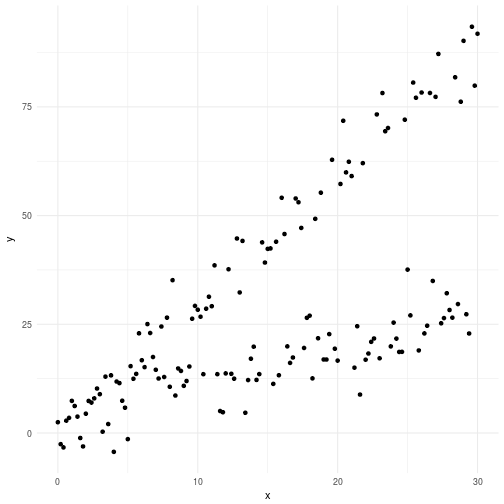
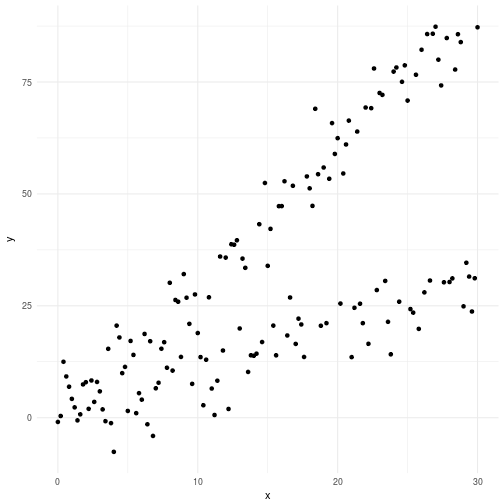
Commited the first version of my new post.

diff --git a/_posts/2017-5-6-About-identifiability-and-granularity.md b/_posts/2017-5-6-About-identifiability-and-granularity.md
@@ -1,0 +1,213 @@
+---
+title: "About identifiability and granularity"
+author: "Dr. Michael Green"
+date: "May 6, 2017"
+output: html_document
+layout: post
+published: true
+status: publish
+use_math: true
+---
+ 
+ 
+
+ 
+# Motivation for this post
+ 
+In time series modeling you typically run into issues concerning complexity versus utility. What I mean by that is that there may be questions you need the answer to but are afraid of the model complexity that comes along with it. This fear of complexity is something that relates to identifiability and the curse of dimensionality. Fortunately for us probabilistic programming can handle these things neatly. In this post we're going to look at a problem where we have a choice between a granular model and an aggregated one. We need to use a proper probabilistic model that we will sample in order to get the posterior information we are looking for.
+ 
+# The generating model
+ 
+In order to do this exercise we need to know what we're doing and as such we will generate the data we need by simulating a stochastic process. I'm not a big fan of this since simulated data will always be, well simulated, and as such not very realistic. Data in our real world is not random people. This is worth remembering, but as the clients I work with on a daily basis are not inclined to share their precious data, and academic data sets are pointless since they are almost exclusively too nice to represent any real challenge I resort to simulated data. It's enough to make my point. So without further ado I give you the generating model.
+ 
+$$ \begin{align}
+y_t &\sim N(\mu_t, 7)\\
+\mu_t &= x_t + 7 z_t\\
+x_t &\sim N(3, 1)\\
+z_t &\sim N(1, 1)
+\end{align} $$
+ 
+which is basically a gaussian mixture model. So that represents the ground truth. The time series generated looks like this
+ 
+![plot of chunk problemplot](/images/figure/problemplot-1.png)
+ 
+where time is on the x axis and the response variable on the y axis. The first few lines of the generated data are presented below.
+ 
+
+|  t|         y|        x|          z|
+|--:|---------:|--------:|----------:|
+|  0| 20.411003| 2.314330|  1.0381077|
+|  1| 22.174020| 2.512780|  1.5292838|
+|  2| -5.035160| 2.048367| -0.1099282|
+|  3|  1.580412| 1.627389|  1.2106257|
+|  4| -5.391217| 4.924959| -0.4488093|
+|  5| -1.360732| 3.237641| -0.1645335|
+ 
+So it's apparent that we have three variables in this data set; the response variable $y$, and the covariates $x$ and $z$ ($t$ is just an indicator of a fake time). So the real model is just a linear model of the two variables. Now say that instead we want to go about solving this problem and we have two individuals arguing about the best solution. Let's call them Mr. Granularity and Mr. Aggregation. Now Mr. Granularity is a fickle bastard as he always wants to split things into more fine grained buckets. Mr. Aggregation on the other hand is more kissable by nature. By that I'm refering to the Occam's razor version of kissable, meaning "Keep It Simple Sir" (KISS). 
+ 
+This means that Mr. Granularity wants to estimate a parameter for each of the two variables while Mr. Aggregation wants to estimate one parameter for the sum of $x$ and $z$.
+ 
+# Mr. Granularity's solution
+ 
+So let's start out with the more complex solution. Mathematically Mr. Granularity defines the probabilistic model like this
+ 
+$$ \begin{align}
+y_t &\sim N(\mu_t, \sigma)\\
+\mu_t &=\beta_x x_t + \beta_z z_t + \beta_0\\ 
+\beta_x &\sim N(0, 5)\\
+\beta_z &\sim N(0, 5)\\
+\beta_0 &\sim N(0, 5)\\
+\sigma &\sim U(0.01, \inf) 
+\end{align} $$
+ 
+which is implemented in Stan code below. There's nothing funky or noteworthy going on here. Just a simple linear model. 
+ 
+
+ 
+ 
+
+    data {
+      int N;
+      real x[N];
+      real z[N];
+      real y[N];
+    }
+    parameters {
+      real b0;
+      real bx;
+      real bz;
+      real<lower=0> sigma;
+    }
+    model {
+      b0 ~ normal(0, 5);
+      bx ~ normal(0, 5);
+      bz ~ normal(0, 5);
+      for(n in 1:N)
+        y[n] ~ normal(bx*x[n]+bz*z[n]+b0, sigma);
+    }
+    generated quantities {
+      real y_pred[N];
+      for (n in 1:N)
+        y_pred[n] = x[n]*bx+z[n]*bz+b0;
+    }
+ 
+
+ 
+# Mr. Aggregation's solution
+ 
+So remember that Mr. Aggregation was concerned about over-fitting and didn't want to split things up into the most granular pieces. As such, in his solution, we will add the two variables $x$ and $z$ together and quantify them as if they were one. The resulting model is given below followed by the implementation in Stan.
+ 
+$$ \begin{align}
+y_t &\sim N(\mu_t, \sigma)\\
+\mu_t &=\beta_r (x_t + z_t) + \beta_0\\ 
+\beta_r &\sim N(0, 5)\\
+\beta_0 &\sim N(0, 5)\\
+\sigma &\sim U(0.01, \inf) 
+\end{align} $$
+ 
+ 
+
+    data {
+      int N;
+      real x[N];
+      real z[N];
+      real y[N];
+    }
+    parameters {
+      real b0;
+      real br;
+      real<lower=0> sigma;
+    }
+    model {
+      b0 ~ normal(0, 5);
+      br ~ normal(0, 5);
+      for(n in 1:N)
+        y[n] ~ normal(br*(x[n]+z[n])+b0, sigma);
+    }
+    generated quantities {
+      real y_pred[N];
+      for (n in 1:N)
+        y_pred[n] = (x[n]+z[n])*br+b0;
+    }
+ 
+
+ 
+# Analysis
+ 
+Now let's have a look at the different solutions and what we end up with. This problem was intentionally noise to confuse even the granular approach as much as possible. We'll start by inspecting the posteriors for the parameters of interest. They're shown below in these caterpillar plots where the parameters are on the y-axis and the posterior density is given on the x-axis.
+ 
+
+ 
+![plot of chunk distributions](/images/figure/distributions-1.png)
+ 
+It is clear that the only direct comparison we can make is the intercept $b_0$ from both models. Now if you remember, the generating function doesn't contain an intercept. It's $0$. Visually inspecting the graphs above will show you that something bad is happening to both models. Let's put some numbers on this shall we. The Tables below will illuminate the situation. 
+ 
+### Parameter distributions - Granular model
+ 
+
+|   |  mean|  2.5%|   25%|   50%|  75%| 97.5%|
+|:--|-----:|-----:|-----:|-----:|----:|-----:|
+|b0 | -0.88| -4.86| -2.21| -0.89| 0.49|  3.14|
+|bx |  0.88| -0.41|  0.44|  0.87| 1.32|  2.15|
+|bz |  7.21|  5.89|  6.77|  7.23| 7.66|  8.49|
+ 
+Mr. Granularity have indeed identified a *possible* intercept with the current model. The mean value of the posterior is -0.88 and as you can see there is 33% probability mass larger than $0$ indicating the models confidence that there is an intercept. The model expresses the same certainty about the fact that $\beta_x$ and $\beta_z$ are real given that 91% and 100% of their masses respectively are above $0$. The absolute errors for the models estimate are -0.12 and 0.21 for $\beta_x$ and $\beta_z$ respectively.
+ 
+### Parameter distributions - Aggregated model
+ 
+
+|   |  mean|   2.5%|   25%|   50%|   75%| 97.5%|
+|:--|-----:|------:|-----:|-----:|-----:|-----:|
+|b0 | -6.11| -10.19| -7.47| -6.14| -4.77| -1.99|
+|br |  3.89|   2.90|  3.56|  3.89|  4.22|  4.89|
+ 
+Mr. Aggregation have also identified a *possible* intercept with the current model. The mean value of the posterior is -6.11 and as you can see there is 0% probability mass larger than $0$ indicating the models confidence that there is an intercept. The model expresses the same certainty about the fact that $\beta_r$ is real given that 100% of it's mass is above $0$. The absolute errors for the models estimate are 2.89 and -3.11 if you consider the distance from the true $\beta_x$ and $\beta_z$ respectively.
+ 
+## Comparing the solutions
+ 
+
+ 
+The table below quantifies the differences between the estimated parameters and the parameters of the generating function. The top row are the true parameter values from the generating function and the row names are the different estimated parameters in Mr. A's and Mr. G's model respectively.
+ 
+|          | b0 | bx | bz |
+|----------|----|----|----|
+| Mr. A b0 |  6.11  |  |  |
+| Mr. A br |  | 2.89 | 3.11 |
+| Mr. G b0 |  0.88 |  |  |
+| Mr. G bx |  | 0.12 |  |
+| Mr. G bz |  |  |  0.21  |
+ 
+As is apparent from the table you can see that Mr. Aggregation's model is 289% off with respect to the true $\beta_x$ coefficient, and 44% off with respect to the true $\beta_z$ coefficient. That's not very impressive and actually leads to the wrong conclusions when trying to discern the dynamics of $x$ and $z$ on $y$.
+ 
+The corresponding analysis for the granular model gives us better results. Mr. Granularity's model is 12% off with respect to the true $\beta_x$ coefficient, and 3% off with respect to the true $\beta_z$ coefficient. This seems a lot better. But still, if we have a granular model, why are we so off on the intercept? Well if you remember the generating function from before it looked like this
+ 
+$$ \begin{align}
+y_t &\sim N(\mu_t, 7)\\
+\mu_t &= x_t + 7 z_t\\
+x_t &\sim N(3, 1)\\
+z_t &\sim N(1, 1)
+\end{align} $$
+ 
+which is statistically equivalent with the follwoing formulation
+ 
+$$ \begin{align}
+y_t &\sim N(\mu_t, 7)\\
+\mu_t &= x_t + 7 z_t + 3\\
+x_t &\sim N(0, 1)\\
+z_t &\sim N(1, 1)\\
+\end{align} $$
+ 
+which in turn would make the $x_t$ variable nothing but noise. This can indeed be confirmed if you simulate many times. This is one of the core problems behind some models; identifiability. It's a tough thing and the very reason why maximum likelihood can not be used in general. You need to sample!
+ 
+ 
+# Conclusion
+ 
+I've shown you today the dangers of aggregating information into a single unit and what those dangers are. There is a version of the strategy shown here which brings the best of both worlds; Hierarchical pooling. This methodology pulls data with low information content towards the mean of the other more highly informative ones. The degree of pooling can be readily expressed as a prior belief on how much the different subparts should be connected. As such; don't throw information away. If you believe they belong together, express that belief as a prior. Don't restrict your model to the same biases as you have! In summary:
+ 
+- Always add all the granularity you need to solve the problem
+- Don't be afraid of complexity; it's part of life
+- Always sample the posteriors when you have complex models
+- Embrace the uncertainty that your model shows
+- Be aware that the uncertainty quantified is the **model's** uncertainty
+ 
+Happy Inferencing!
